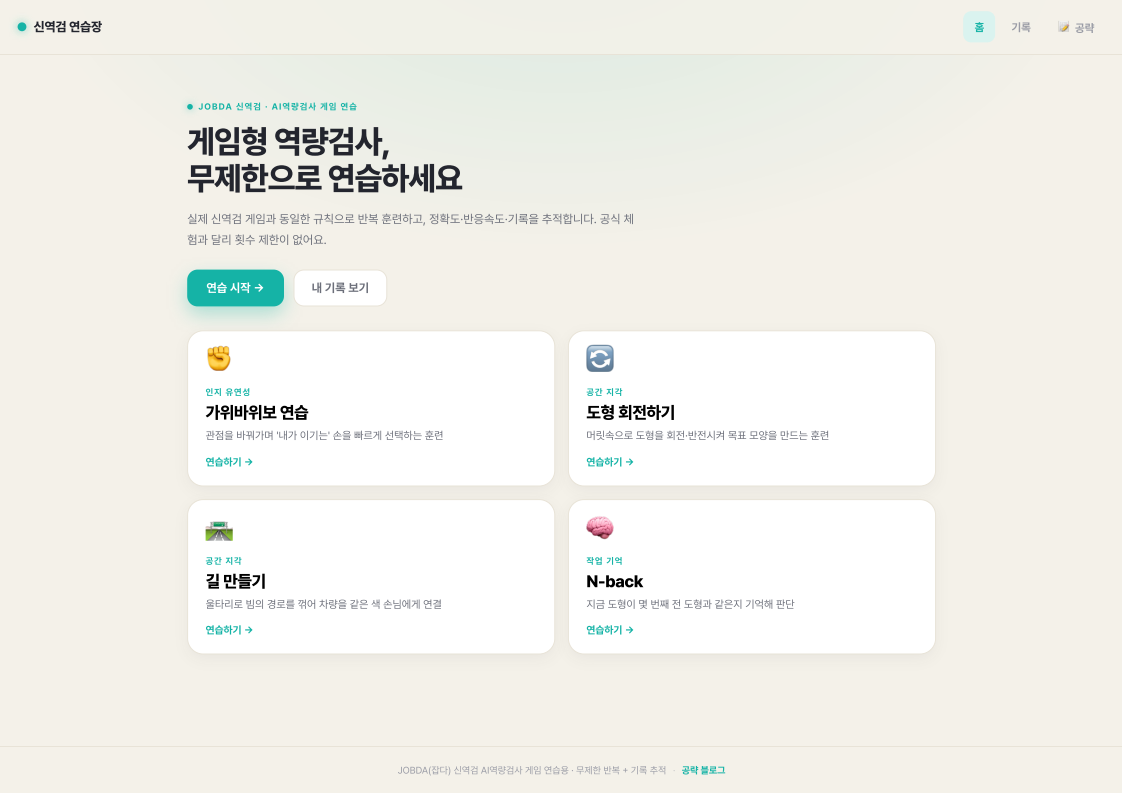
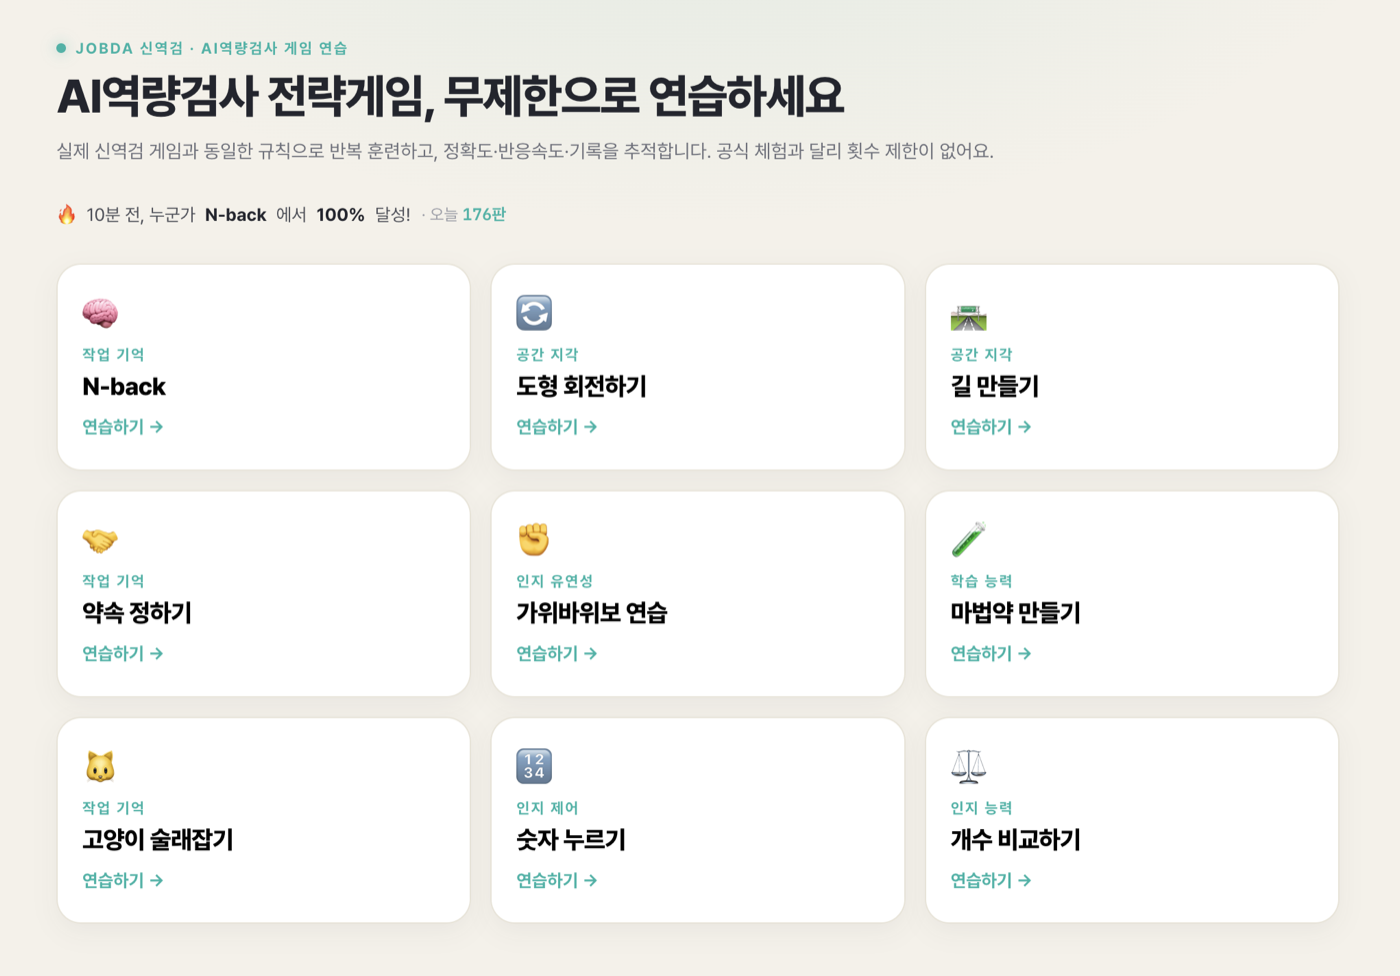
AI역검 메인 스크린샷 9종 화면으로 교체(jobda-home.png), 캐시 v28

diff --git a/index.html b/index.html
@@ -11,7 +11,7 @@
   <link rel="preconnect" href="https://fonts.googleapis.com" />
   <link rel="preconnect" href="https://fonts.gstatic.com" crossorigin />
   <link href="https://fonts.googleapis.com/css2?family=JetBrains+Mono:wght@500;700&display=swap" rel="stylesheet" />
-  <link rel="stylesheet" href="styles.css?v=27" />
+  <link rel="stylesheet" href="styles.css?v=28" />
 </head>
 <body>
   <!-- ===== NAV ===== -->
@@ -73,7 +73,7 @@
     <div class="wrap footer__copy">© <span id="year"></span> 박정연 · Data Analytics Portfolio</div>
   </footer>
 
-  <script src="data.js?v=27"></script>
-  <script src="main.js?v=27"></script>
+  <script src="data.js?v=28"></script>
+  <script src="main.js?v=28"></script>
 </body>
 </html>

diff --git a/project.html b/project.html
@@ -12,7 +12,7 @@
   <link rel="preconnect" href="https://fonts.gstatic.com" crossorigin />
   <link href="https://fonts.googleapis.com/css2?family=JetBrains+Mono:wght@500;700&display=swap" rel="stylesheet" />
   <link rel="stylesheet" href="https://cdn.jsdelivr.net/gh/highlightjs/cdn-release@11.9.0/build/styles/github.min.css" />
-  <link rel="stylesheet" href="styles.css?v=27" />
+  <link rel="stylesheet" href="styles.css?v=28" />
 </head>
 <body>
   <!-- NAV -->
@@ -43,7 +43,7 @@
 
   <script src="https://cdn.jsdelivr.net/gh/highlightjs/cdn-release@11.9.0/build/highlight.min.js"></script>
   <script src="https://cdn.jsdelivr.net/npm/chart.js@4.4.1/dist/chart.umd.min.js"></script>
-  <script src="data.js?v=27"></script>
-  <script src="project.js?v=27"></script>
+  <script src="data.js?v=28"></script>
+  <script src="project.js?v=28"></script>
 </body>
 </html>